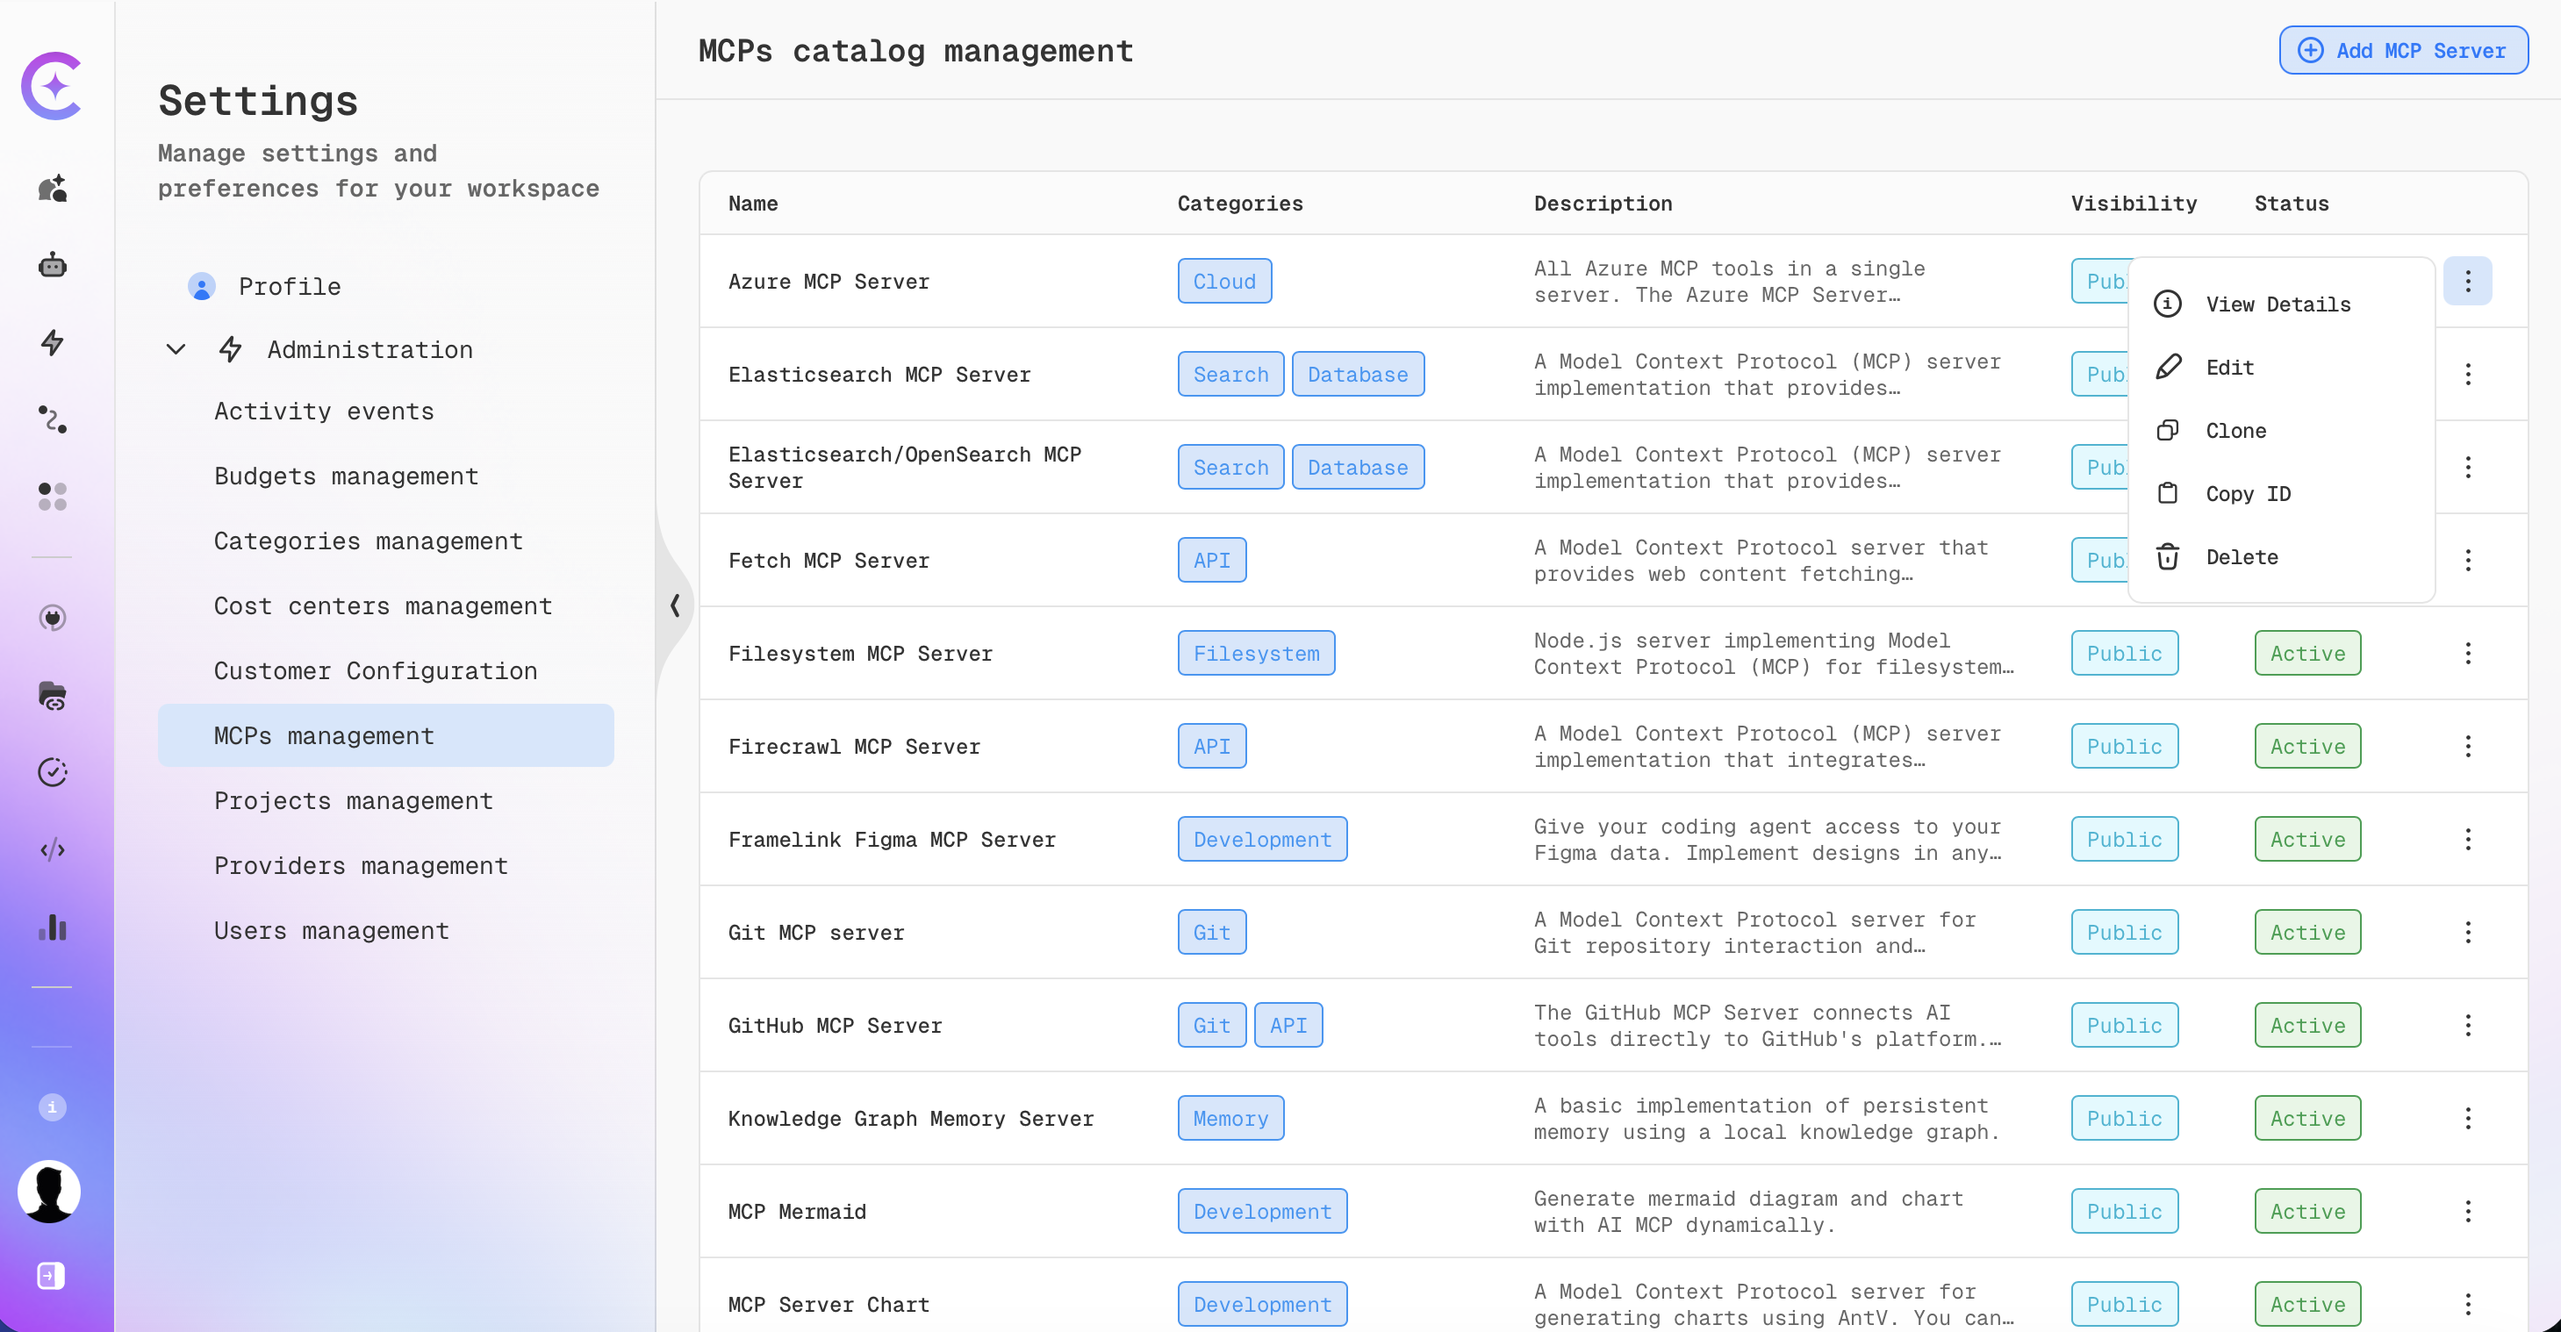
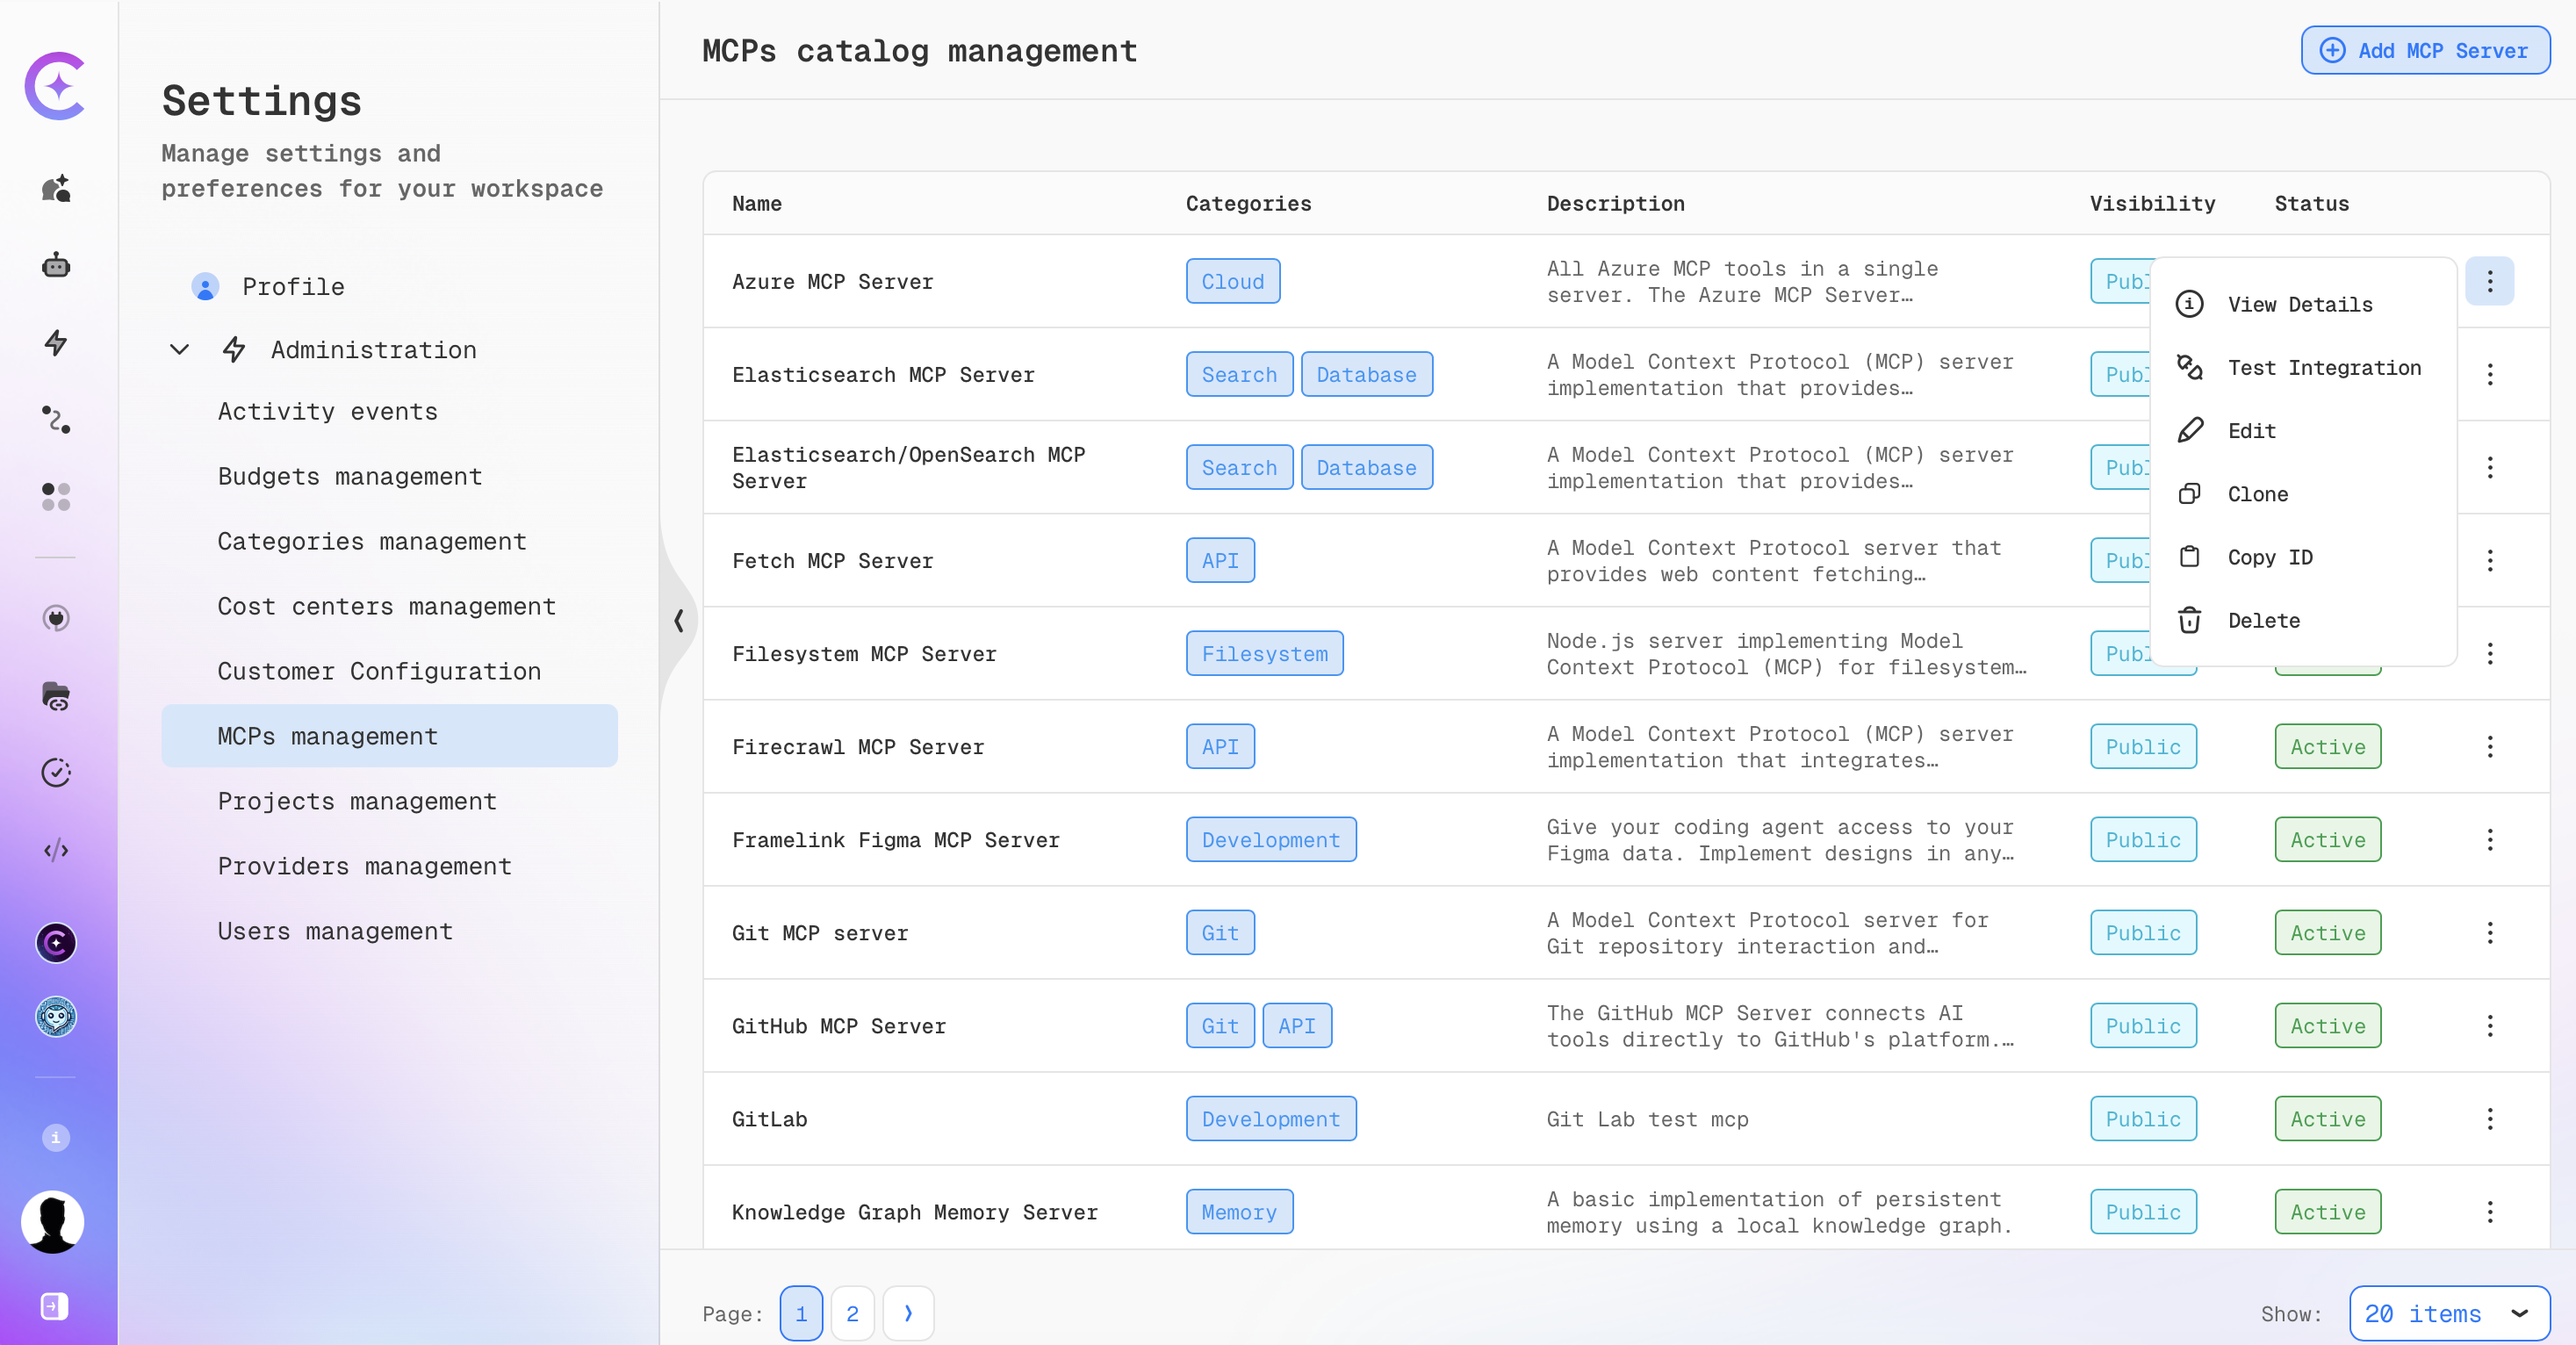
docs(user-guide): address review findings for mcp clone docs
Generated with AI

diff --git a/docs/user-guide/tools_integrations/tools/mcp/clone-mcp-server.md b/docs/user-guide/tools_integrations/tools/mcp/clone-mcp-server.md
@@ -15,9 +15,20 @@ re-entering every field by hand. The clone opens as an editable, pre-filled form
 review and adjust values before saving — not a one-click copy.
 
 :::warning Access Required
-Cloning an MCP server configuration is available only to **Platform Administrators** and
-**Maintainers**. See [Roles and Access Control](../../../../admin/security/roles-rbac.md) for
-details on these roles.
+Cloning an MCP server configuration is available only to users whose account has `is_admin` set
+to `true`. This includes **Maintainers**, who always have `is_admin` enabled. For everyone else,
+the **Clone** item is hidden from the row actions menu, and the clone request is rejected by the
+API. See [Roles and Access Control](../../../../admin/security/roles-rbac.md) for details on these
+roles.
+
+The **MCPs management** page is also available only when both of these feature flags are enabled:
+
+- `mcpConnect`, set in the customer configuration. See
+  [Customer Feature Configuration](../../../../admin/configuration/codemie/customer-feature-configuration.md).
+- `features:enterpriseEdition`, which the platform enables automatically when it runs as
+  Enterprise Edition.
+
+If either flag is disabled, the page is not available.
 :::
 
 This manages the same admin-controlled catalog referenced in
@@ -32,9 +43,7 @@ configuration).
 2. The **MCPs catalog management** page lists every server in the catalog, with its name,
    categories, description, visibility, and status.
 
-![MCPs catalog management list, with the row actions menu open showing View Details, Edit, Clone, Copy ID, and Delete](../images/mcp-catalog-management-list.png)
-
-Each row's actions menu offers **View Details**, **Edit**, **Clone**, **Copy ID**, and **Delete**.
+![MCPs catalog management list, with a row's actions menu open showing View Details, Test Integration, Edit, Clone, Copy ID, and Delete](../images/mcp-catalog-management-list.png)
 
 ## Clone an Existing Server
 
@@ -42,9 +51,12 @@ Each row's actions menu offers **View Details**, **Edit**, **Clone**, **Copy ID*
 2. The **Clone MCP Server** dialog opens immediately, pre-filled from the source server —
    **except Name, which opens empty.** Type a name before you can save; it is not pre-filled or
    suggested from the source name.
+
+   ![Clone MCP Server dialog with an empty Name field and the other fields pre-filled from the source server](../images/mcp-clone-server-dialog.png)
+
 3. Review and edit any of the pre-filled values:
-   - **Basic Information**: **Name** (required, starts empty), **Icon URL**, **Category** (choose
-     up to three from the predefined list), **Description** (required).
+   - The top fields: **Name** (required, starts empty), **Icon URL**, **Category** (choose up to
+     three from the predefined list), **Description** (required).
    - **Documentation or Source Link**: **Link to MCP documentation** (required). **Link to Source
      code** isn't marked required in the dialog, but the form currently blocks saving if it's left
      empty — fill in a URL here even though it has no required indicator.
@@ -59,25 +71,36 @@ If the source server's auth settings include a confidential OAuth2 client secret
 Configuration JSON never shows the real value — the secret field is replaced with a
 `has_client_secret` flag instead. Leave that part of the configuration as-is to carry the
 original secret over to the clone unchanged, or add a `client_secret` value to set a different
-secret for the clone. This applies specifically to OAuth2 client secrets in `auth_config`; other
-values such as environment variables are not masked this way.
+secret for the clone.
+
+This masking applies only to OAuth2 client secrets in `auth_config`. Any other credentials in the
+Configuration JSON — such as headers, tokens, environment variable values, or credentials embedded
+in URLs — are shown in plain text to the person cloning and are copied to the clone as-is unless
+you change them.
 :::
 
 ## After Cloning
 
 - The clone is saved as a **new, independent** catalog entry. Subsequent edits to the clone do not
   change the original, and edits to the original do not affect the clone.
+- You become the owner of the clone, regardless of who created the original.
 - Visibility and system-provided status are always copied from the source and cannot be changed in
   the clone form.
-- The clone starts with its own usage count of zero and is active immediately. The catalog list is
-  sorted by usage count (most-used first) and then by name, so a freshly cloned entry appears
-  wherever that sort places it — not necessarily at the top — once any existing servers in the
-  catalog have been used.
+- Assistants and workflows that use the original server are not switched to the clone. Update them
+  manually if they should use the new entry.
+- The clone starts with its own usage count of zero and is active immediately. It appears at the
+  top of the list right after saving; after a page refresh, it takes its place in the regular sort
+  order (most-used first, then by name).
+
+![MCPs catalog management list with the new clone shown at the top, above the original server](../images/mcp-clone-server-result.png)
 
 ## Validation and Errors
 
-- **Name** and **Description** are required, as are **Link to MCP documentation** and the
-  **Configuration JSON**.
+- **Name**, **Description**, **Link to MCP documentation**, **Link to Source code**, and the
+  **Configuration JSON** are required.
+- **Link to MCP documentation**, **Link to Source code**, and **Icon URL** must be valid URLs.
+- You can select at most three categories.
+- Each environment variable must have a name.
 - Configuration JSON must be valid JSON; an invalid server configuration is rejected on save.
 - The name must be unique among the configurations you created — reusing a name you already used
   for another of your catalog entries is rejected with "Name already exists". A name used by a
